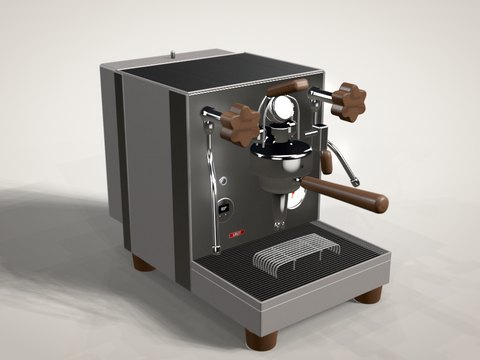
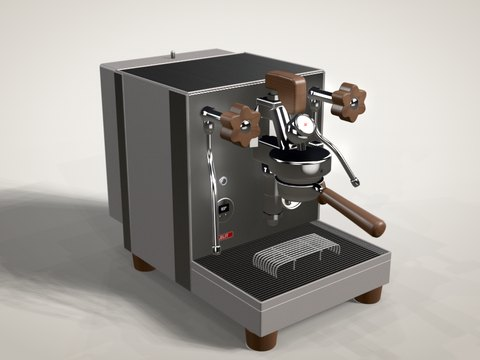
Lelit Bianca: Brühgruppe nach V3-Werksbild und Zeichnung neu aufgebaut
Lage und Höhen über eine aus den Gehäusekanten gelöste Fotokamera und
die Front-/Seitenzeichnung nachgemessen: Gruppenachse bei z 100 statt 54,
flache Glockentrommel, Gruppenkörper mit hoher Säule nach unten, schräger
Hals zum Kopfstück, Manometer rund 40° nach oben geneigt, zwei spitze
Chromtürme auf polierter Rückplatte, Flow-Control-Paddel mit L-Profil auf
senkrechter Achse, Brühhebel neben der Glocke, kurzer Doppelauslauf,
abfallender Siebträgergriff, gewölbte Knopfkappen, Logo unter dem Display.

Claude-Session: https://claude.ai/code/session_01XVE81muw7HYcqaEMYwBuXM

Changed region(s): [[0.5, 0.1833, 0.8125, 0.6722], [0.4375, 0.6417, 0.5312, 0.6722], [0.7188, 0.2444, 0.75, 0.3056]]

diff --git a/js/devices/lelit.js b/js/devices/lelit.js
@@ -15,7 +15,7 @@
 // Z = 0 ist die Vorderkante des Gehäuses (Frontblech).
 // ---------------------------------------------------------------------------
 import * as THREE from 'three';
-import { boxProjectUV, rbox, extrudeZ, woodBoxUV, woodCylUV } from '../model.js';
+import { boxProjectUV, rbox, extrudeZ, polyhedron, woodBoxUV, woodCylUV } from '../model.js';
 import { makeSlotFieldTexture } from '../textures.js';
 import { GAUGE_DIALS, NEEDLES } from '../data.js';
 import { makeCanvas } from '../noise.js';
@@ -174,11 +174,15 @@ const MODELS = {
     feet: { x: 120, z: [-192, 153], r: [26, 22.5] },
     frames: [-197, -49], // Seitenblech zwischen Rahmenprofilen
     tank: { z0: -304.6, bot: 71 },
-    gz: 54, // Achse der Brühgruppe
+    // Achse der Brühgruppe: Seitenzeichnung (Glocke z 50…148) und Kameraabgleich des
+    // Werksbilds (Dreiviertelansicht) ergeben übereinstimmend z ≈ 100
+    gz: 100,
     group: 'e61',
     portaH: 236,
     handleEnd: 280,
-    spoutH: 130,
+    spoutH: 196,
+    spout: 'fork', // kurzer Doppelauslauf; die hohe Säule dahinter gehört zur Gruppe
+    handleTilt: 0.19, // Siebträgergriff ~11° nach vorn abfallend (Werksbilder)
     knobs: { x: 114, h: 340, z: 80, shape: 'star' },
     steam: { side: -1, tip: [-157, 140, 92] },
     water: { tip: [159, 180, 92] },
@@ -188,8 +192,8 @@ const MODELS = {
     waterPath: [[114, 270, 12], [130, 247, 50], [159, 180, 80]],
     lever: true,
     gauge: { x: 73, h: 165, r: 32, dual: true },
-    groupGauge: { h: 340, r: 21 },
-    paddleH: 360,
+    // Gruppenmanometer: Zifferblattmitte (Höhe, Tiefe), Neigung nach oben
+    groupGauge: { h: 322, z: 106, r: 18.5, tilt: 0.7 }, // Seitenzeichnung: rund 40° nach oben geneigt
     lcc: { x: -80, h: 167, r: 22 },
     power: { x: -80, h: 219 },
     paddle: true,
@@ -270,9 +274,9 @@ function makeBuilder(V) {
       const sh = filletShape([[-HW + 2, tTop], [HW - 2, tTop], [HW - 2, V.top - 2], [-HW + 2, V.top - 2]], 1.5, 2);
       B.add(boxProjectUV(plateZ(sh, -1.6, 1.6, 0.4)), mat('metal.front'), S('metal.front'));
       // Badge bzw. Logo
-      const bw = V.id === 'bianca' ? 34 : 46;
+      const bw = V.id === 'bianca' ? 44 : 46;
       const badge = B.plain(new THREE.PlaneGeometry(bw, bw * 0.3125), new THREE.MeshStandardMaterial({ map: makeBadge(V.id === 'bianca' ? 'lelit' : 'marax3'), transparent: true, roughness: 0.4, metalness: 0.1 }));
-      if (V.id === 'bianca') badge.position.set(-50, 116, 0.6);
+      if (V.id === 'bianca') badge.position.set(-80, 118, 0.6);
       else badge.position.set(-38, 153, 0.25);
     }
 
@@ -428,23 +432,25 @@ function makeBuilder(V) {
     B.stage('group');
     const GZ = V.gz;
     {
-      // Halsstück von der Front zur Gruppe
-      const neck = latheZ([[0, 0], [22, 0], [22, GZ], [0, GZ]], 40);
-      B.add(neck, groupMat, S('metal.group')).position.set(0, V.portaH + 44, 0);
       if (V.group === 'e61') {
-        // ---- Bianca V3 (Werksbilder Front/Dreiviertel, Höhen an der Zeichnung ausgerichtet) ----
-        const BT = V.portaH + 42; // Oberkante der Glocke (278)
-        const BB = V.portaH - 1; // Unterkante der Glocke (235)
-        // Glocke: breite, flache Trommel Ø 104 mm mit gerundeter Oberkante, Dach zum Kamin
-        B.add(
+        // ---- Bianca V3: E61-Gruppe mit Flow-Control-Paddel ----
+        // Aufbau nach den Werksbildern (Front, Dreiviertel, Detail) und der Front-/Seitenzeichnung,
+        // Lage und Höhen über eine aus den Gehäusekanten gelöste Fotokamera nachgemessen:
+        // flache Glockentrommel vorn (Achse z 100), dahinter der Gruppenkörper mit der hohen
+        // Säule nach unten, ein schräg nach hinten oben laufender Hals bis zur Paddelachse
+        // (z 38), das Manometer vorn am Hals, links und rechts davon zwei spitze Chromtürme
+        // auf einer polierten Rückplatte am Frontblech.
+        const gm = (g, parent) => B.add(g, groupMat, S('metal.group'), parent);
+        const BB = V.portaH; // Unterkante Glocke / Oberkante Siebträger (236)
+        const DT = 277; // Oberkante der Trommel
+        // Glocke: unterer Kragen Ø 72, Trommel Ø 100 mit gerundeten Kanten, Deckel bis zum Hals
+        gm(
           latheY(
-            [[0, BB], [44, BB], [49, BB + 1.5], [52, BB + 5], [52, BT - 9], [51, BT - 4.5], [48, BT - 1.5], [43, BT], [26, BT + 3], [18, BT + 6], [15.5, BT + 8], [0, BT + 8]],
-            96,
+            [[0, BB], [34, BB], [36, BB + 1.5], [36, 247], [44, 248.2], [48, 249.2], [50, 251.5], [50, DT - 4], [49.4, DT - 1.6], [47.8, DT], [45, DT + 1.2], [33, DT + 3.4], [24, DT + 5.6], [21, DT + 6.4], [0, DT + 6.4]],
+            112,
           ),
-          groupMat,
-          S('metal.group'),
         ).position.z = GZ;
-        // Schloss-Symbol vorn auf der Glocke
+        // Schloss-Symbol vorn auf der Trommel
         const lockTex = (() => {
           const c = makeCanvas(64, 80);
           const g = c.getContext('2d');
@@ -462,39 +468,98 @@ function makeBuilder(V) {
           return new THREE.CanvasTexture(c);
         })();
         const lock = B.plain(new THREE.PlaneGeometry(7, 8.75), new THREE.MeshStandardMaterial({ color: 0x151515, alphaMap: lockTex, transparent: true, roughness: 0.4 }));
-        lock.position.set(0, (BB + BT) / 2, GZ + 52.15);
+        lock.position.set(0, 261, GZ + 50.15);
         lock.castShadow = false;
-        // Kamin über der Glocke, Manometergehäuse nach vorn oben geneigt
-        B.add(latheY([[0, BT + 6], [14, BT + 6], [14, BT + 30], [17, BT + 33], [0, BT + 33]], 40), groupMat, S('metal.group')).position.z = GZ - 4;
-        const tilt = 0.42; // Manometer nach vorn oben gekippt
+
+        // Gruppenkörper hinter der Glocke (vom Frontblech bis in die Glocke)
+        gm(boxProjectUV(rbox(38, 41, GZ - 22, 6, 3))).position.set(0, 263.5, (GZ - 22) / 2);
+        // hohe Säule unter dem Gruppenkörper (Frontzeichnung x ±17, Seitenzeichnung z 17…56)
+        gm(
+          latheY(
+            [[0, 131], [5.5, 131], [7.5, 133], [9, 136], [9, 146], [13, 146], [13, 156], [15, 157], [15, 189], [16.2, 190], [17, 191], [17, 224], [18.5, 225.5], [20, 227], [20, 244], [0, 244]],
+            40,
+          ),
+        ).position.set(0, 0, 36);
+        // Sechskant an der Säule
+        gm(new THREE.CylinderGeometry(17, 17, 9, 6)).position.set(0, 151, 36);
+
+        // schräger Hals: von der Glocke (z 75) nach hinten oben zum Kopfstück (z 45),
+        // Seitenzeichnung und Kameraabgleich stimmen überein (rund 25° gegen die Senkrechte)
+        const H0 = new THREE.Vector3(0, DT + 3, 75);
+        const H1 = new THREE.Vector3(0, 341, 45);
+        const hd = H1.clone().sub(H0);
+        const HL = hd.length();
+        const neck = gm(
+          latheY(
+            [[0, -6], [21, -6], [21, -3], [18.5, 2], [16.5, 9], [15.4, 18], [14.8, HL - 6], [15.8, HL - 3], [15.8, HL], [0, HL]],
+            56,
+          ),
+        );
+        neck.quaternion.setFromUnitVectors(new THREE.Vector3(0, 1, 0), hd.normalize());
+        neck.position.copy(H0);
+        // Kopfstück am Frontblech (Seitenzeichnung: z 0…44, Höhe 319…343), darauf die
+        // längliche Deckplatte (z 13…56, Höhe 343…352, Breite 38), Sechskantmutter und
+        // Ventilspindel unter dem Paddel (Achse senkrecht bei z 35)
+        gm(boxProjectUV(rbox(20, 26, 46, 4, 3))).position.set(0, 331, 22); // schmal zwischen den Türmen
+        gm(boxProjectUV(rbox(38, 10, 44, 2, 2))).position.set(0, 347.5, 34);
+        gm(new THREE.CylinderGeometry(11.5, 11.5, 8, 6)).position.set(0, 356.5, 35);
+        gm(latheY([[0, 360], [6, 360], [6, 369], [8, 370], [0, 370]], 24)).position.z = 35;
+
+        // Gruppenmanometer vorn am Hals, nach vorn oben geneigt
+        const GG = V.groupGauge;
         const gq = new THREE.Group();
-        gq.position.set(0, V.groupGauge.h, GZ - 2);
-        gq.rotation.x = -tilt;
+        gq.position.set(0, GG.h, GG.z);
+        gq.rotation.x = -GG.tilt;
         root.add(gq);
-        B.add(latheZ([[0, -22], [17, -22], [21.5, -12], [22.5, -4], [22.5, 2], [0, 2]], 48), groupMat, S('metal.group'), gq);
-        V._groupGauge = buildGauge(B, { slot: S('metal.gauge'), x: 0, y: 0, z: 0, R: V.groupGauge.r, bezel: 2.6, parent: gq, spec: { id: 'lelit-group', max: 12, step: 1, label: 2, value: 9, unit: 'bar', zone: [8, 10] } });
-        // Kamin oben bis zur Paddelachse
-        B.add(latheY([[0, BT + 50], [12, BT + 50], [12, V.paddleH - 6], [14, V.paddleH - 2], [0, V.paddleH + 2]], 32), groupMat, S('metal.group')).position.z = GZ - 18;
-        // abgerundete Halteblöcke links und rechts hinter der Glocke
-        for (const sx of [-1, 1]) {
-          B.add(boxProjectUV(rbox(26, 26, 44, 9, 4)), groupMat, S('metal.group')).position.set(sx * 33, BT + 20, GZ - 30);
+        const RH = GG.r + 2.6;
+        gm(latheZ([[0, -31], [9, -31], [14, -29.5], [RH - 1.5, -24], [RH, -19], [RH, 0.6], [0, 0.6]], 48), gq);
+        // Stütze vom Gehäuseboden schräg nach unten in den Hals
+        const stem = gm(new THREE.CylinderGeometry(6.5, 7.5, 24, 24).translate(0, -12, 0), gq);
+        stem.position.set(0, -RH + 6, -20);
+        stem.rotation.x = 0.55;
+        V._groupGauge = buildGauge(B, { slot: S('metal.gauge'), x: 0, y: 0, z: 0, R: GG.r, bezel: 2.6, parent: gq, spec: { id: 'lelit-group', max: 12, step: 1, label: 2, value: 9, unit: 'bar', zone: [8, 10] } });
+        // Glas des schräg nach oben zeigenden Manometers spiegelt sonst das Oberlicht flächig
+        // und verdeckt das Zifferblatt; schwächer spiegelnd wie auf den Werksbildern
+        {
+          const dim = F.glass.clone();
+          dim.clearcoat = 0.3;
+          dim.specularIntensity = 0.3;
+          dim.envMapIntensity = 0.35;
+          V._groupGauge.grp.traverse((o) => { if (o.material === F.glass) o.material = dim; });
         }
-        // Drahtbügel (Schutzkorb) um das Manometer, je Seite zwei Stäbe
-        for (const sx of [-1, 1]) {
-          for (const dz of [-10, 6]) {
-            const z = GZ - 6 + dz;
-            const pts = [
-              [sx * 38, BT + 4, z],
-              [sx * 37, BT + 30, z],
-              [sx * 36, BT + 54, z],
-              [sx * 28, BT + 72, z],
-              [sx * 15, V.paddleH - 2, z - 6],
-            ];
-            B.add(tubeAlong(pts, 1.5, 50, 8), groupMat, S('metal.group'));
-          }
-        }
+
+        // polierte Rückplatte am Frontblech und zwei spitze Chromtürme (Grundriss: Fünfeck mit
+        // flacher Spitze nach vorn, 26 mm breit; Wände bis 312 mm, Spitze vorn auf 343 mm;
+        // Flächenbreiten aus der Dreiviertelansicht nachgerechnet)
+        gm(boxProjectUV(rbox(68, 44, 3, 1, 2))).position.set(0, 293, 1.5);
+        const tower = (cx) => {
+          const y0 = 272;
+          const yw = 312;
+          const ya = 343;
+          const w = 13;
+          const zb = 2.5;
+          const zw = 15;
+          const zp = 20;
+          const b = [[cx - w, y0, zb], [cx - w, y0, zw], [cx, y0, zp], [cx + w, y0, zw], [cx + w, y0, zb]];
+          const t = [[cx - w, yw, zb], [cx - w, yw, zw], [cx + w, yw, zw], [cx + w, yw, zb]];
+          const ap = [cx, ya, zp];
+          return polyhedron([
+            [b[4], b[3], b[2], b[1], b[0]], // Boden
+            [b[0], t[0], t[3], b[4]], // Rückseite
+            [b[0], b[1], t[1], t[0]], // Außenwand links
+            [b[1], b[2], ap, t[1]], // Bugfläche links
+            [b[2], b[3], t[2], ap], // Bugfläche rechts
+            [b[3], b[4], t[3], t[2]], // Wand rechts
+            [t[1], ap, t[0]], // Dach links
+            [ap, t[2], t[3]], // Dach rechts
+            [t[0], ap, t[3]], // Dach hinten
+          ]);
+        };
+        for (const sx of [-1, 1]) gm(boxProjectUV(tower(sx * 21)));
       } else {
-        // LELIT58: hohe, abgerundete Haube über einem breiten Kragen
+        // LELIT58: Halsstück, hohe abgerundete Haube über einem breiten Kragen
+        const neck = latheZ([[0, 0], [22, 0], [22, GZ], [0, GZ]], 40);
+        B.add(neck, groupMat, S('metal.group')).position.set(0, V.portaH + 44, 0);
         const housing = latheY([[0, V.portaH + 30], [27, V.portaH + 30], [29, V.portaH + 50], [29, 362], [27, 374], [18, 381], [0, 382]], 64);
         housing.scale(1, 1, 0.82);
         B.add(housing, groupMat, S('metal.group')).position.z = GZ - 6;
@@ -505,16 +570,34 @@ function makeBuilder(V) {
         B.add(latheY([[0, V.portaH - 3], [38, V.portaH - 3], [41, V.portaH + 3], [41, V.portaH + 18], [30, V.portaH + 24], [0, V.portaH + 24]], 64), groupMat, S('metal.group')).position.z = GZ;
         B.add(latheY([[0, 382], [11, 382], [11, 388], [0, 389]], 6), groupMat, S('metal.group')).position.z = GZ - 6;
       }
-      // Flow-Control-Paddel (Bianca) auf der Gruppe
+      // Flow-Control-Paddel (Bianca): Holzklotz auf senkrechter Achse (z 38), in Ruhestellung nach
+      // vorn zeigend; Seitenprofil L-förmig mit Aussparung über Mutter und Spindel
       if (V.paddle) {
-        // Flow-Control-Paddel: Holzpaddel auf der Achse über dem Kamin, nach vorn oben gerichtet
-        const pg = new THREE.Group();
-        pg.position.set(0, V.paddleH, GZ - 18);
-        pg.rotation.x = -0.35;
-        root.add(pg);
-        B.add(new THREE.CylinderGeometry(6, 6, 22, 20).rotateZ(Math.PI / 2), groupMat, S('metal.group'), pg);
-        const blade = woodBoxUV(rbox(31, 18, 74, 7, 3), 2, [0.12, 0.4]);
-        B.add(blade, mat('wood.paddle'), S('wood.paddle'), pg).position.set(0, 4, 34);
+        const pts = [];
+        const arc = (cz, cy, r, a0, a1, n = 8) => {
+          for (let i = 0; i <= n; i++) {
+            const a = a0 + ((a1 - a0) * i) / n;
+            pts.push([cz + r * Math.cos(a), cy + r * Math.sin(a)]);
+          }
+        };
+        const P = Math.PI;
+        // Seitenprofil (z, y) nach dem Werksdetailbild: senkrechte Rückseite, Aussparung über
+        // Mutter und Spindel bis z 55, darunter eine schräge Unterkante bis zur Stirn,
+        // Stirn leicht gewölbt, Oberkanten gerundet
+        arc(31, 390, 7, P, P / 2); // hinten oben
+        pts.push([60, 398.2]); // Oberseite leicht gewölbt
+        arc(87, 386, 11, P / 2, 0.1); // vorn oben
+        pts.push([99.2, 372]);
+        arc(87, 350, 12, -0.05, -P / 2); // vorn unten
+        pts.push([80, 338], [60.5, 356.2], [57.6, 357.9], [55.9, 359.6], [55.5, 361.5]); // schräge Unterkante, Knick zur Stufe
+        arc(52.5, 367, 3, 0, P / 2, 4); // Hohlkehle in der Aussparung
+        arc(27, 373, 3, -P / 2, -P, 4); // hinten unten
+        const sh = new THREE.Shape(pts.map(([z, y]) => new THREE.Vector2(-z, y)));
+        const g = new THREE.ExtrudeGeometry(sh, { depth: 17, bevelEnabled: true, bevelThickness: 4, bevelSize: 4, bevelOffset: -4, bevelSegments: 5, curveSegments: 6 });
+        g.translate(0, 0, -8.5);
+        g.rotateY(Math.PI / 2);
+        const blade = woodBoxUV(g, 2, [0.12, 0.4]);
+        B.add(blade, mat('wood.paddle'), S('wood.paddle'));
       }
     }
 
@@ -539,7 +622,7 @@ function makeBuilder(V) {
         const k = B.add(kg, mat('wood.knobs'), S('wood.knobs'));
         k.position.set(sx * K.x, K.h, K.z - 2);
         if (K.shape === 'star') {
-          const cap = B.add(latheZ([[0, 0], [11, 0], [11, 1.2], [10, 2.2], [0, 2.4]], 32), groupMat, S('metal.group'));
+          const cap = B.add(latheZ([[0, 0], [11.5, 0], [11.5, 1], [11, 3], [9.6, 5.2], [7.2, 6.8], [4, 7.7], [0, 8]], 32), groupMat, S('metal.group'));
           cap.position.set(sx * K.x, K.h, K.z + 20.5);
         } else {
           const ball = new THREE.SphereGeometry(16, 40, 24, 0, Math.PI * 2, 0, Math.PI / 2);
@@ -576,20 +659,22 @@ function makeBuilder(V) {
       lance([out(-1), ...V.steamPath], 4.8, V.id === 'bianca' ? 20 : 17, false);
       lance([out(1), ...V.waterPath], V.water.short ? 4.4 : 4.6, V.water.short ? 8 : 20, !!V.water.grip);
     }
-    // E61-Hebel rechts an der Gruppe (Bianca): Verbindungsrohr, Gelenkblock, Hebel mit Holzgriff
+    // Brühhebel rechts an der Gruppe (Bianca): Querrohr aus dem Gruppenkörper, Gelenkblock neben
+    // der Glocke, Hebelstange schräg nach unten mit Holzgriff (Frontzeichnung: Block x 66…84,
+    // Höhe 237…271; Griff x 73…92, Höhe 160…200; Tiefe aus dem Kameraabgleich z ≈ 60)
     if (V.lever) {
-      const BT = V.portaH + 42;
-      B.add(new THREE.CylinderGeometry(4.6, 4.6, 28, 20).rotateZ(Math.PI / 2), groupMat, S('metal.group')).position.set(64, BT + 9, GZ);
-      B.add(boxProjectUV(rbox(20, 44, 22, 3, 2)), groupMat, S('metal.group')).position.set(87, BT - 2, GZ);
-      B.add(new THREE.CylinderGeometry(5.5, 5.5, 26, 6).rotateZ(Math.PI / 2), groupMat, S('metal.group')).position.set(64, BT + 9, GZ);
-      const top = [88, BT - 24, GZ + 4];
-      const mid = [99, BT - 66, GZ + 10];
-      B.add(tubeAlong([top, [93, BT - 44, GZ + 7], mid], 4, 30, 14), groupMat, S('metal.group'));
-      const dir = new THREE.Vector3(104 - 99, -41, 2).normalize();
-      const grip = woodCylUV(latheY([[0, 0], [7.5, 0], [9.5, 6], [10, 30], [8.5, 38], [5, 41], [0, 41.5]], 28).rotateX(-Math.PI / 2), [0.2, 0.3]).rotateX(Math.PI / 2);
-      const gm = B.add(grip, mat('wood.paddle'), S('wood.paddle'));
-      gm.quaternion.setFromUnitVectors(new THREE.Vector3(0, -1, 0), dir);
-      gm.position.set(...mid);
+      const gm = (g) => B.add(g, groupMat, S('metal.group'));
+      gm(new THREE.CylinderGeometry(6, 6, 50, 24).rotateZ(Math.PI / 2)).position.set(43, 256, 58);
+      gm(new THREE.CylinderGeometry(8.5, 8.5, 9, 6).rotateZ(Math.PI / 2)).position.set(58, 256, 58);
+      gm(boxProjectUV(rbox(18, 34, 22, 3, 2))).position.set(75, 254, 58);
+      const top = [77, 238, 60];
+      const mid = [82, 202, 64];
+      gm(tubeAlong([top, [79.5, 220, 62], mid], 4, 30, 14));
+      const dir = new THREE.Vector3(mid[0] - top[0], mid[1] - top[1], mid[2] - top[2]).normalize();
+      const grip = woodCylUV(latheY([[0, 0], [5.5, 0], [7.5, 4], [9.5, 22], [10.2, 32], [9, 39], [5.5, 43], [0, 44]], 28).rotateX(-Math.PI / 2), [0.2, 0.3]).rotateX(Math.PI / 2);
+      const gmw = B.add(grip, mat('wood.paddle'), S('wood.paddle'));
+      gmw.quaternion.setFromUnitVectors(new THREE.Vector3(0, 1, 0), dir);
+      gmw.position.set(...mid);
     }
 
     // =======================================================================
@@ -652,15 +737,26 @@ function makeBuilder(V) {
     {
       const H0 = V.portaH;
       B.add(latheY([[0, H0 - 32], [29, H0 - 32], [33, H0 - 28], [35, H0 - 20], [36, H0 - 6], [39, H0 - 4], [39, H0 - 1], [0, H0 - 1]], 64), groupMat, S('metal.group')).position.z = GZ;
-      B.add(latheY([[0, V.spoutH + 14], [8, V.spoutH + 14], [11, V.spoutH + 22], [15, H0 - 32], [0, H0 - 32]], 24), groupMat, S('metal.group')).position.z = GZ;
-      for (const sx of [-1, 1]) {
-        const s = B.add(latheY([[0, 0], [3.6, 0], [4.4, 7], [4.4, 14], [0, 14]], 16), groupMat, S('metal.group'));
-        s.position.set(sx * 8, V.spoutH, GZ);
-        s.rotation.z = sx * 0.3;
+      if (V.spout === 'fork') {
+        // kurzer Doppelauslauf: Nabe unter dem Sieb, zwei nach außen gebogene Ausläufe
+        B.add(latheY([[0, H0 - 38], [10, H0 - 38], [13, H0 - 35], [14, H0 - 32], [0, H0 - 32]], 24), groupMat, S('metal.group')).position.z = GZ;
+        for (const sx of [-1, 1]) {
+          const arm = B.add(tubeAlong([[sx * 7, H0 - 34, GZ], [sx * 16, H0 - 27, GZ], [sx * 22.5, H0 - 30, GZ], [sx * 23.5, H0 - 38, GZ], [sx * 23, V.spoutH + 2, GZ]], 4.6, 32, 16), groupMat, S('metal.group'));
+          arm.scale.z = 1.25;
+          arm.position.z = -GZ * 0.25;
+          B.add(latheY([[0, 0], [3.4, 0], [5.2, 2], [5.2, 6], [0, 6]], 16), groupMat, S('metal.group')).position.set(sx * 23, V.spoutH - 2, GZ);
+        }
+      } else {
+        B.add(latheY([[0, V.spoutH + 14], [8, V.spoutH + 14], [11, V.spoutH + 22], [15, H0 - 32], [0, H0 - 32]], 24), groupMat, S('metal.group')).position.z = GZ;
+        for (const sx of [-1, 1]) {
+          const s = B.add(latheY([[0, 0], [3.6, 0], [4.4, 7], [4.4, 14], [0, 14]], 16), groupMat, S('metal.group'));
+          s.position.set(sx * 8, V.spoutH, GZ);
+          s.rotation.z = sx * 0.3;
+        }
       }
       const pf = new THREE.Group();
       pf.position.set(0, H0 - 6, GZ + 36);
-      pf.rotation.x = -0.07; // Griff leicht ansteigend wie in den Ansichten
+      pf.rotation.x = V.handleTilt ?? -0.07; // Neigung des Griffs (Bianca: nach vorn abfallend wie in den Werksbildern)
       root.add(pf);
       B.add(latheZ([[0, 0], [7.5, 0], [7.5, 12], [6.5, 14], [6.5, 22], [0, 22]], 24), groupMat, S('metal.group'), pf);
       const L = V.handleEnd - GZ - 36;
